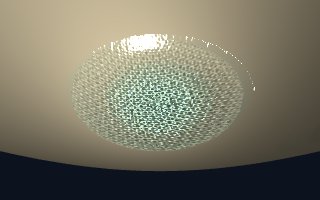
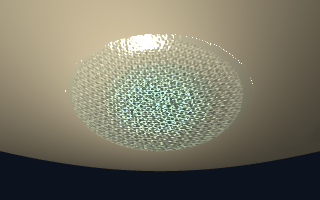
feat: domínio aberto dos fluidos de partículas — sem paredes, quem sai da caixa é retirado
ParticleMaterial({ bounds: 'open' }): SPH, PBF e MPM sem chão, paredes nem adesão nos planos do
domínio; partícula que sai por baixo ou pelos lados é retirada (fora da grade, do enquadramento da
água e da imagem). Padrão 'walls' bit a bit. Cenas sobre o terreno usam o domínio aberto; medida
nova: nenhuma partícula parada fora do terreno.

Claude-Session: https://claude.ai/code/session_015NtZ5D3phr8urRhrPuP6ZA

diff --git a/src/__smokes__/parametricSurfaces.ts b/src/__smokes__/parametricSurfaces.ts
@@ -164,6 +164,16 @@ function dropBodies(app: Application): { radius: number; half: number } {
     return { radius, half };
 }
 
+/** Domínio aberto dos fluidos sobre superfícies (spec 010): sem paredes; quem sai da caixa é retirado. */
+const OPEN_DOMAIN = {
+    bounds: 'open',
+    domainMin: [-2.5, -2, -2.5],
+    domainMax: [2.5, 2, 2.5],
+} as const;
+
+/** Partícula retirada do domínio aberto: parada muito abaixo da cena. */
+const RETIRED_BELOW = -1e6;
+
 /** Espaçamento da água do lago (o da 017). */
 const LAKE_SPACING = 0.025;
 const LAKE_W = 320;
@@ -215,9 +225,10 @@ async function lakeScene(water: 'caustics' | 'plain' | 'none', steps: number) {
             // Água de referência (spec 030): coesão e adesão amortecem o escoamento e o lago assenta.
             cohesion: clayflow.ParticleMaterial.WATER_COHESION,
             adhesion: clayflow.ParticleMaterial.WATER_ADHESION,
-            // Domínio bem maior que o terreno: as paredes do domínio (com adesão) não seguram respingos no ar.
-            domainMin: [-3, -1.5, -3],
-            domainMax: [3, 1.5, 3],
+            // Domínio aberto (spec 010): sem paredes; a caixa só limita o cálculo, e o que sai do terreno é retirado.
+            bounds: 'open',
+            domainMin: [-1.5, -0.8, -1.5],
+            domainMax: [1.5, 1.5, 1.5],
         }),
     );
     insertValley(app, clayflow, { shape: LAKE_VALLEY, albedo: [0.86, 0.8, 0.66] });
@@ -544,13 +555,15 @@ const CASES: Record<string, Case> = {
                               }),
                     );
                 }
-            else
+            else {
+                app.world.insert(new clayflow.ParticleMaterial(OPEN_DOMAIN));
                 app.world.insert(
                     new clayflow.FluidBody({
                         algorithm: 'PBF',
                         position: block(216, spacing, [0.4, -0.2, 0.3], 11).flat(),
                     }).add(new clayflow.PointSpriteMaterial({ radius: spacing / 2 })),
                 );
+            }
             await settle(app);
             const frames = Math.round((steps * rate) / 60);
             let done = 0;
@@ -589,7 +602,8 @@ const CASES: Record<string, Case> = {
             });
             let below = 0;
             for (const p of fluid)
-                if (valleyHeight(p[0], p[2], f.lift) - p[1] > spacing / 2) below++;
+                if (p[1] >= RETIRED_BELOW && valleyHeight(p[0], p[2], f.lift) - p[1] > spacing / 2)
+                    below++;
             c.measure('60 Hz: corpos afundados', sunk);
             c.measure('60 Hz: corpos flutuando', floating);
             c.measure('60 Hz: partículas abaixo', below);
@@ -631,11 +645,17 @@ const CASES: Record<string, Case> = {
         const dry = await lakeScene('none', 1);
         let below = 0;
         let escaped = 0;
+        let retired = 0;
         for (const p of wet.particles) {
+            if (p[1] < RETIRED_BELOW) {
+                retired++;
+                continue;
+            }
             const h = valleyHeight(p[0], p[2], 0, LAKE_VALLEY);
             if (h - p[1] > LAKE_SPACING / 2) below++;
             if (p[1] < -LAKE_VALLEY.depth - LAKE_SPACING) escaped++;
         }
+        c.measure('retiradas (saíram do terreno)', retired);
         const variation = Math.max(...wet.levels) - Math.min(...wet.levels);
         c.measure('partículas', wet.particles.length);
         c.measure('abaixo da superfície', below);
@@ -810,7 +830,7 @@ const CASES: Record<string, Case> = {
             view(app);
             app.world.insert(new GravityField({ acceleration: [0, -9.81, 0, 0] }));
             const spacing = clayflow.ParticleMaterial.defaults.particleSpacing;
-            app.world.insert(new clayflow.ParticleMaterial({ adhesion }));
+            app.world.insert(new clayflow.ParticleMaterial({ ...OPEN_DOMAIN, adhesion }));
             const R = 0.45;
             insertDistanceSurface(app, 'sphere', [R]);
             app.world.insert(
@@ -826,6 +846,7 @@ const CASES: Record<string, Case> = {
             let inside = 0;
             let clinging = 0;
             for (const p of pos) {
+                if (p[1] < RETIRED_BELOW) continue;
                 const d = Math.hypot(...p) - R;
                 if (d < -spacing / 2) inside++;
                 if (d < 2 * spacing) clinging++;
@@ -1238,6 +1259,7 @@ const CASES: Record<string, Case> = {
             view(app);
             app.world.insert(new GravityField({ acceleration: [0, -9.81, 0, 0] }));
             insertValley(app, clayflow);
+            app.world.insert(new clayflow.ParticleMaterial(OPEN_DOMAIN));
             const spacing = clayflow.ParticleMaterial.defaults.particleSpacing;
             const start = block(512, spacing, [0.5, -0.2, -0.2], 7);
             app.world.insert(
@@ -1250,8 +1272,23 @@ const CASES: Record<string, Case> = {
             );
             await settle(app);
             run(app, 240);
-            const pos = await readPositions(app, FLUID_SCHEMA[algorithm]);
+            const all = await readPositions(app, FLUID_SCHEMA[algorithm]);
+            const vel = await readPositions(app, FLUID_SCHEMA[algorithm], 'vel');
             app.dispose();
+            // Retiradas (saíram do terreno e da caixa) ficam fora das medidas; paradas fora do terreno: presas no ar.
+            const pos = all.filter((p) => p[1] >= RETIRED_BELOW);
+            const stuck = all.filter(
+                (p, k) =>
+                    p[1] >= RETIRED_BELOW
+                    && Math.max(Math.abs(p[0]), Math.abs(p[2])) > VALLEY.half
+                    && Math.hypot(...vel[k]!) < 0.05,
+            ).length;
+            c.measure(`${algorithm}: retiradas`, all.length - pos.length);
+            c.measure(`${algorithm}: paradas fora do terreno`, stuck);
+            c.check(
+                stuck === 0,
+                `${algorithm}: ${stuck} partículas paradas fora do terreno (presas no ar)`,
+            );
             let below = 0;
             let worst = 0;
             const mean = [0, 0, 0];

diff --git a/src/elements/physics/materials/ParticleMaterial.ts b/src/elements/physics/materials/ParticleMaterial.ts
@@ -28,6 +28,12 @@ export interface ParticleMaterialOptions {
     /** Canto máximo do domínio simulado, em metros (default [2, 2, 2]). */
     readonly domainMax?: readonly [number, number, number];
     /**
+     * O que os limites do domínio são (spec 010): `'walls'` (default) — chão e paredes que seguram e aderem o fluido;
+     * `'open'` — só a caixa de cálculo: nada colide nem adere aos planos do domínio, o fluido colide apenas com os
+     * colliders da cena, e a partícula que sai da caixa é retirada (parada fora da cena, sem vizinhos nem desenho).
+     */
+    readonly bounds?: 'walls' | 'open';
+    /**
      * Coesão — tensão superficial de Akinci et al. 2013 (SPH e PBF), adimensional (default 0, desligada): 1 dá à
      * partícula de borda uma aceleração de coesão da ordem de g. Referência de água: `ParticleMaterial.WATER_COHESION`.
      */
@@ -246,7 +252,8 @@ export class ParticleMaterial extends Entity<ParticleMaterialData> implements Re
             restitution,
             youngModulus: positive('youngModulus', options.youngModulus ?? 5e4),
             poissonRatio: poisson,
-            domainMin: [...min, 0],
+            // w = 1: domínio aberto (spec 010).
+            domainMin: [...min, options.bounds === 'open' ? 1 : 0],
             domainMax: [...max, 0],
             _pad0: 0,
             _pad1: 0,
@@ -294,6 +301,11 @@ export class ParticleMaterial extends Entity<ParticleMaterialData> implements Re
     }
 
     /** Canto mínimo do domínio. */
+    /** Domínio aberto (`bounds: 'open'`, spec 010): sem paredes; o que sai da caixa é retirado. */
+    get openBounds(): boolean {
+        return this.data.domainMin[3] === 1;
+    }
+
     get domainMin(): [number, number, number] {
         const v = this.data.domainMin;
         return [v[0]!, v[1]!, v[2]!];

diff --git a/src/elements/gpu/shaders/math.ts b/src/elements/gpu/shaders/math.ts
@@ -10,6 +10,7 @@ import lcpSource from '../wgsl/math/lcp.wgsl?raw';
 import colliderSetSource from '../wgsl/math/collider_set.wgsl?raw';
 import surfaceColliderHitSource from '../wgsl/math/surface_collider_hit.wgsl?raw';
 import colliderHitSource from '../wgsl/math/collider_hit.wgsl?raw';
+import fluidBoundsSource from '../wgsl/math/fluid_bounds.wgsl?raw';
 import lcpStateSource from '../wgsl/math/lcp_state.wgsl?raw';
 import femSource from '../wgsl/math/fem.wgsl?raw';
 import noiseSource from '../wgsl/math/noise.wgsl?raw';
@@ -76,6 +77,9 @@ export const mpmMaterial = wgslModule({ name: 'mpm_material', source: mpmMateria
  * Consulta de um colisor de superfície (spec 010): altura ou distância com sinal da cópia do passo corrente; os
  * bindings (`collider_surfaces`, `collider_surface_field`, `collider_step`) são declarados por quem hospeda.
  */
+/** Limites do domínio dos fluidos (spec 010): domínio aberto — retirada de quem sai da caixa, sem adesão aos planos. */
+export const fluidBounds = wgslModule({ name: 'fluid_bounds', source: fluidBoundsSource });
+
 /** Fronteira genérica de colisão: `ColliderHit` (distância com sinal e normal de mundo). */
 export const colliderHit = wgslModule({ name: 'collider_hit', source: colliderHitSource });
 
@@ -89,7 +93,7 @@ export const surfaceColliderHit = wgslModule({
 export const colliderSet = wgslModule({
     name: 'collider_set',
     source: colliderSetSource,
-    requires: [quat, sdf, sphKernels, surfaceColliderHit],
+    requires: [quat, sdf, sphKernels, surfaceColliderHit, fluidBounds],
     structs: [
         ColliderSetCountsSchema,
         PlaneCollider.schema,

diff --git a/src/elements/physics/schemas/simParams.ts b/src/elements/physics/schemas/simParams.ts
@@ -90,6 +90,10 @@ export const MPMSimParamsSchema = new StructSchema(
         field_density: FieldType.f32,
         _field_pad0: FieldType.f32,
         _field_pad1: FieldType.f32,
+        /** Canto máximo do domínio (spec 010: com `open_bounds`, o que sai da caixa é retirado). */
+        bound_max: FieldType.vec3f,
+        /** Domínio aberto (spec 010): sem paredes nem adesão nos planos do domínio; quem sai da caixa é retirado. */
+        open_bounds: FieldType.u32,
     },
     { addressSpace: 'uniform' },
 );
@@ -130,6 +134,10 @@ export const SPHSimParamsSchema = new StructSchema(
         field_density: FieldType.f32,
         _field_pad0: FieldType.f32,
         _field_pad1: FieldType.f32,
+        /** Canto máximo do domínio (spec 010: com `open_bounds`, o que sai da caixa é retirado). */
+        bound_max: FieldType.vec3f,
+        /** Domínio aberto (spec 010): sem paredes nem adesão nos planos do domínio; quem sai da caixa é retirado. */
+        open_bounds: FieldType.u32,
     },
     { addressSpace: 'uniform' },
 );
@@ -171,6 +179,10 @@ export const PBFSimParamsSchema = new StructSchema(
         field_density: FieldType.f32,
         _field_pad0: FieldType.f32,
         _field_pad1: FieldType.f32,
+        /** Canto máximo do domínio (spec 010: com `open_bounds`, o que sai da caixa é retirado). */
+        bound_max: FieldType.vec3f,
+        /** Domínio aberto (spec 010): sem paredes nem adesão nos planos do domínio; quem sai da caixa é retirado. */
+        open_bounds: FieldType.u32,
     },
     { addressSpace: 'uniform' },
 );

diff --git a/src/elements/physics/shaders/mpm.ts b/src/elements/physics/shaders/mpm.ts
@@ -1,7 +1,7 @@
 import { poolLive } from '../../gpu/compute/shaders';
 import { FieldFnRecordSchema, fieldAccelReady, fieldPointTypes } from './fields';
 import { wgslModule } from '../../../scene/shaders/WgslModule';
-import { colliderSet, mat, mpmMaterial, mpmWeights } from '../../gpu/shaders/math';
+import { colliderSet, fluidBounds, mat, mpmMaterial, mpmWeights } from '../../gpu/shaders/math';
 import mpmClearGridSource from '../../gpu/wgsl/kernels/mpm_clear_grid.wgsl?raw';
 import mpmP2GSource from '../../gpu/wgsl/kernels/mpm_p2g.wgsl?raw';
 import mpmGridUpdateSource from '../../gpu/wgsl/kernels/mpm_grid_update.wgsl?raw';
@@ -25,7 +25,7 @@ export const mpmClearGrid = wgslModule({
 export const mpmP2G = wgslModule({
     name: 'mpm_p2g',
     source: mpmP2GSource,
-    requires: [poolLive, mat, mpmWeights, mpmMaterial],
+    requires: [poolLive, mat, mpmWeights, mpmMaterial, fluidBounds],
     structs: [MPMSimParamsSchema, MPMGridNodeSchema, MPMFluidSchema],
 });
 
@@ -41,7 +41,7 @@ export const mpmGridUpdate = wgslModule({
 export const mpmG2P = wgslModule({
     name: 'mpm_g2p',
     source: mpmG2PSource,
-    requires: [poolLive, mat, mpmWeights, mpmMaterial],
+    requires: [poolLive, mat, mpmWeights, mpmMaterial, fluidBounds],
     structs: [MPMSimParamsSchema, MPMGridNodeSchema, MPMFluidSchema],
 });
 

diff --git a/src/elements/physics/flows/PBFFlow.ts b/src/elements/physics/flows/PBFFlow.ts
@@ -361,6 +361,8 @@ export class PBFFlow extends Flow<PBFSlots, 'running'> {
                 restitution: material.restitution,
                 collision_radius: material.particleSpacing / 2,
                 bound_min: material.domainMin,
+                bound_max: material.domainMax,
+                open_bounds: material.openBounds ? 1 : 0,
                 particle_mass: material.particleMass,
                 mass_over_density: material.particleMass / material.restDensity,
                 cohesion_gamma: material.cohesionGamma(surface.cohesion),

diff --git a/src/elements/physics/flows/SPHFlow.ts b/src/elements/physics/flows/SPHFlow.ts
@@ -319,6 +319,8 @@ export class SPHFlow extends Flow<SPHSlots, 'running'> {
                 neighbor_stride: NEIGHBOR_SEARCH_MAX_PARTICLES,
                 restitution: material.restitution,
                 bound_min: material.domainMin,
+                bound_max: material.domainMax,
+                open_bounds: material.openBounds ? 1 : 0,
                 particle_mass: material.particleMass,
                 inv_particle_mass: 1 / material.particleMass,
                 cohesion_gamma: material.cohesionGamma(surface.cohesion),

diff --git a/src/elements/physics/flows/MPMFlow.ts b/src/elements/physics/flows/MPMFlow.ts
@@ -303,6 +303,7 @@ export class MPMFlow extends Flow<MPMSlots, 'running'> {
                 grid_z: this.grid.gridDim[2],
                 grid_origin: this.grid.origin,
                 cell_size: this.grid.cellSize,
+                open_bounds: material.openBounds ? 1 : 0,
                 material_id:
                     this.bodyType === 'MPMFluidSchema' ? MPM_MATERIAL_FLUID : MPM_MATERIAL_ELASTIC,
                 substep_count: substeps,

diff --git a/specs/PENDENCIAS.md b/specs/PENDENCIAS.md
@@ -95,8 +95,11 @@ do [ROADMAP](ROADMAP.md) em que está previsto.
   está sob a água pelo texel mais próximo da profundidade da água vista pela luz — cada gota isolada marcava o chão com
   o quadrado do seu texel. Agora a cobertura é interpolada entre os 4 texels (como o PCF da sombra); dentro da água o
   resultado é o de antes, as bordas ficam suaves (fixtures `fluidSurface-*` regravadas: só pixels de borda da água).
-- As paredes do domínio do `ParticleMaterial` recebem adesão (030): respingos que chegam a elas ficam presos no ar. Nas
-  cenas abertas (lago), o domínio precisa ser bem maior que a área da água.
+- Domínio aberto (feedback do usuário: "se o objetivo é testar o terreno, precisamos de parede?"): os limites do domínio
+  do `ParticleMaterial` eram paredes (chão e lados mínimos, com adesão; bordas da grade no MPM) — respingos ficavam
+  presos no ar. `ParticleMaterial({ bounds: 'open' })`: a caixa só limita o cálculo; nada colide nem adere aos planos
+  do domínio, e a partícula que sai por baixo ou pelos lados é retirada (parada muito abaixo da cena, fora da grade de
+  vizinhos, do enquadramento da água e da imagem). Padrão `'walls'`: as cenas de antes, bit a bit.
 
 ### Notas da 030
 

diff --git a/clay-engine-doc/docs/guides/physics_flows.md b/clay-engine-doc/docs/guides/physics_flows.md
@@ -242,6 +242,11 @@ escala não uniforme aproxima a distância pela menor escala; até 16 superfíci
 rápidos que a espessura da grade podem atravessar, como com paredes finas. A folga (`margin`) é 0 por padrão — uma
 folga maior que a dos contatos entre corpos desestabiliza pilhas.
 
+Fluidos sobre terreno ou superfícies abertas usam o domínio aberto do material, sem paredes:
+`new ParticleMaterial({ bounds: 'open', domainMin, domainMax })` — a caixa do domínio só limita o cálculo (a grade de
+vizinhos); o fluido colide só com os colliders da cena, e a partícula que sai da caixa por baixo ou pelos lados é
+retirada. O padrão (`'walls'`) mantém o chão e as paredes do domínio, com adesão.
+
 ## Busca de vizinhança (SPH, PBF)
 
 Reconstruída a cada substep: célula de cada partícula viva, soma de prefixos, espalhamento, ordenação por índice dentro
